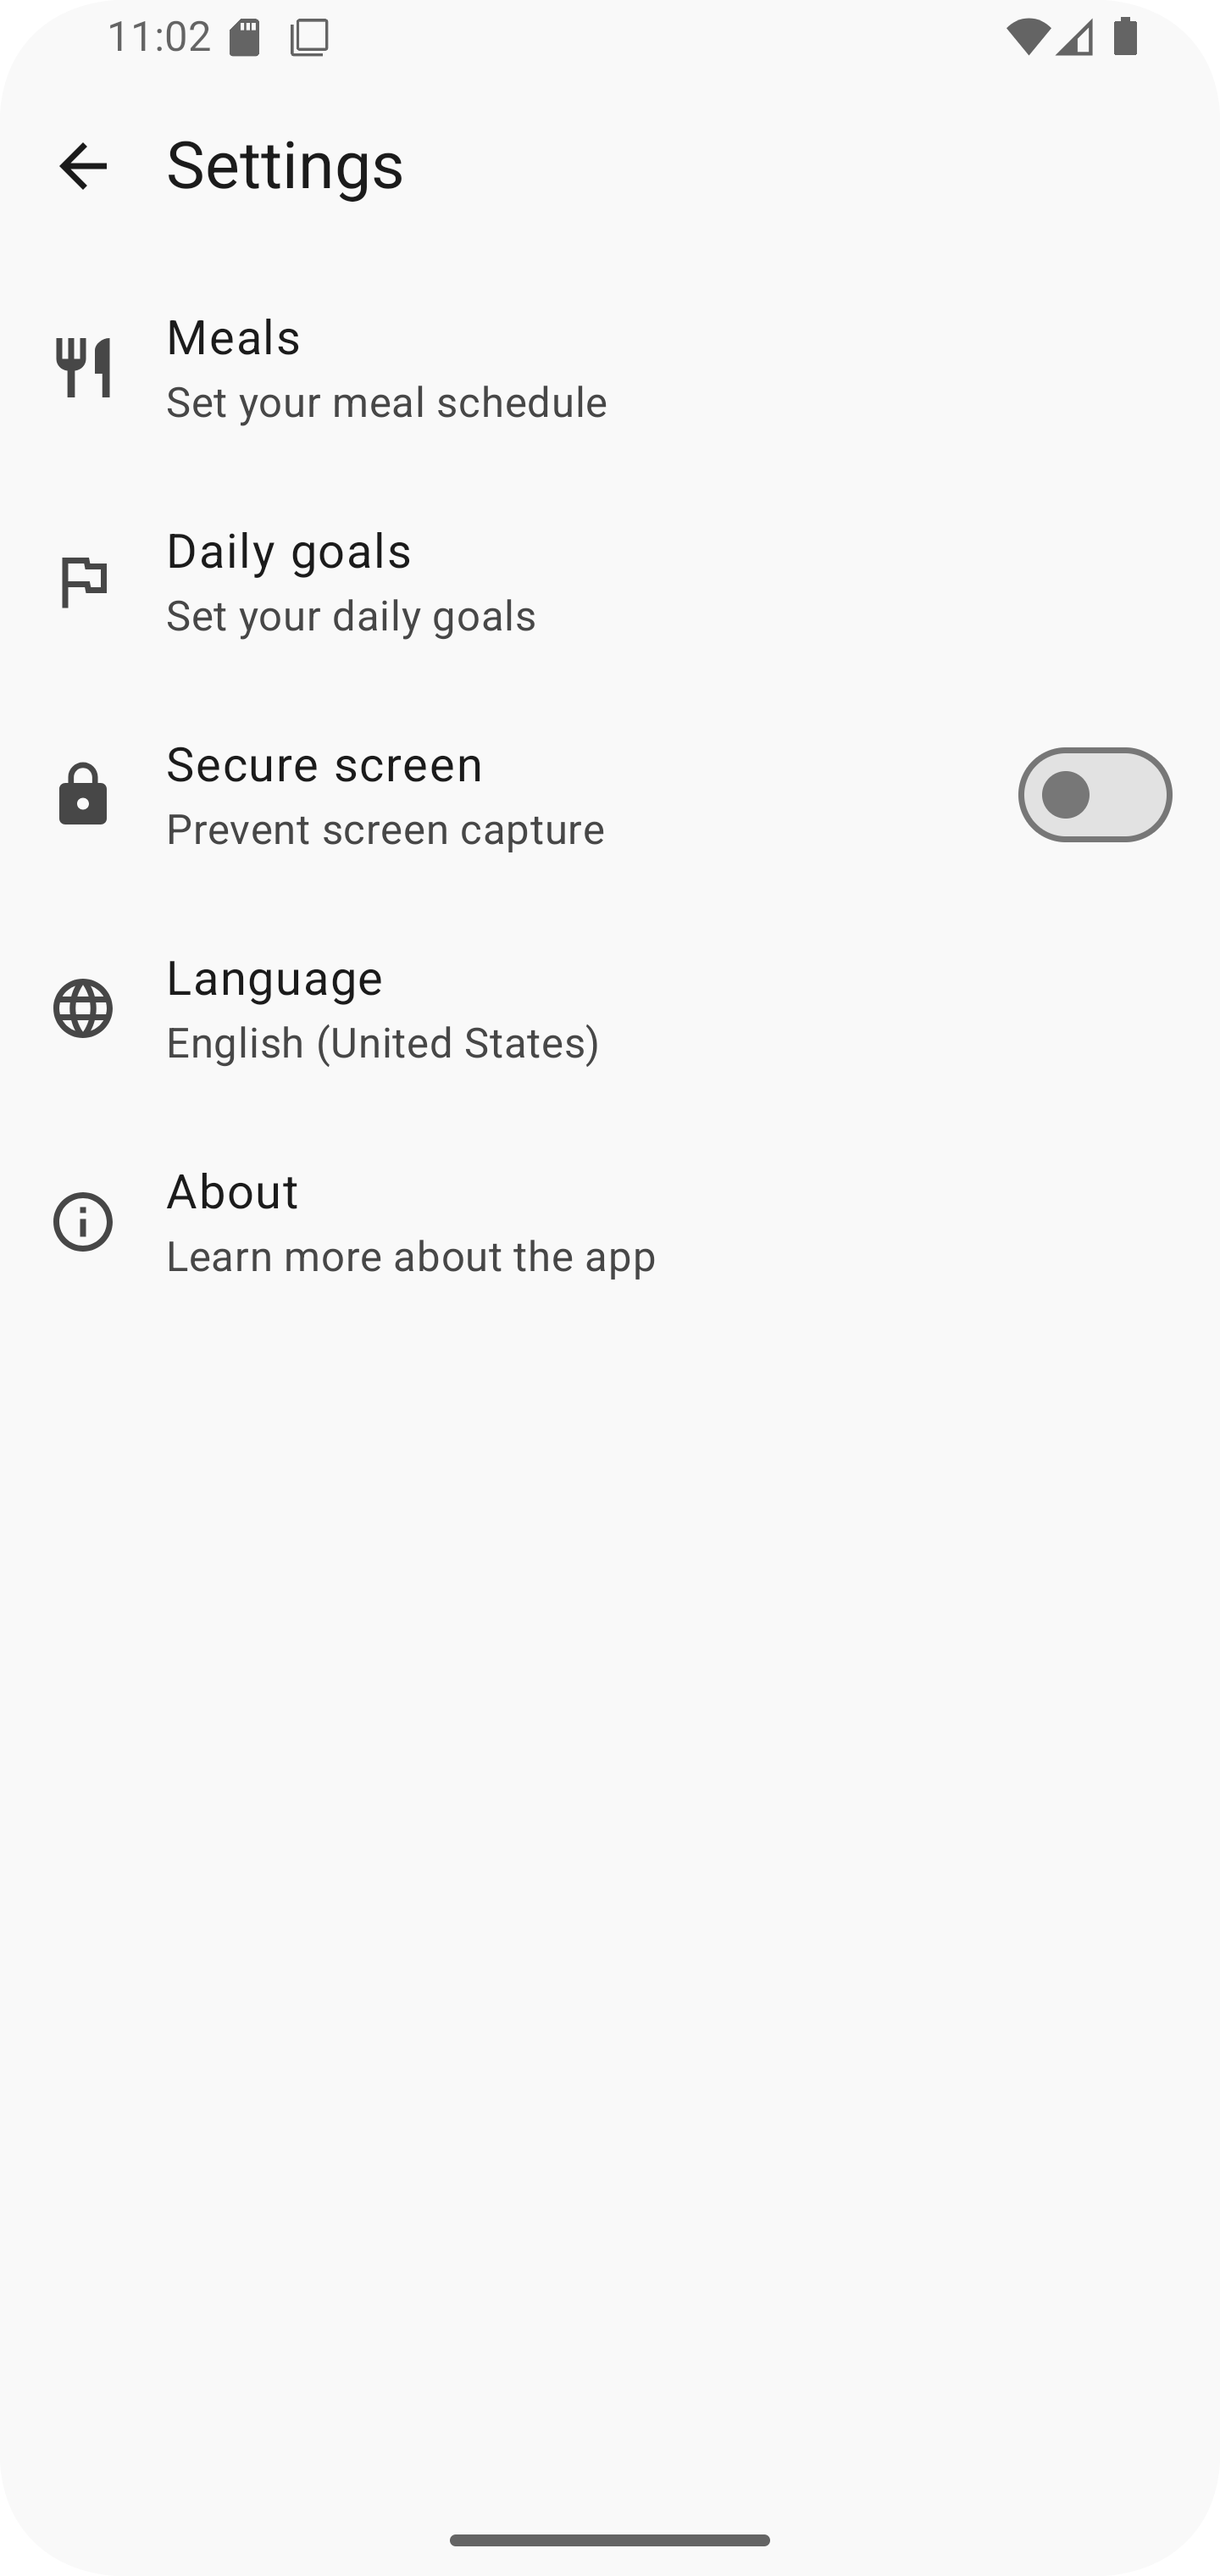
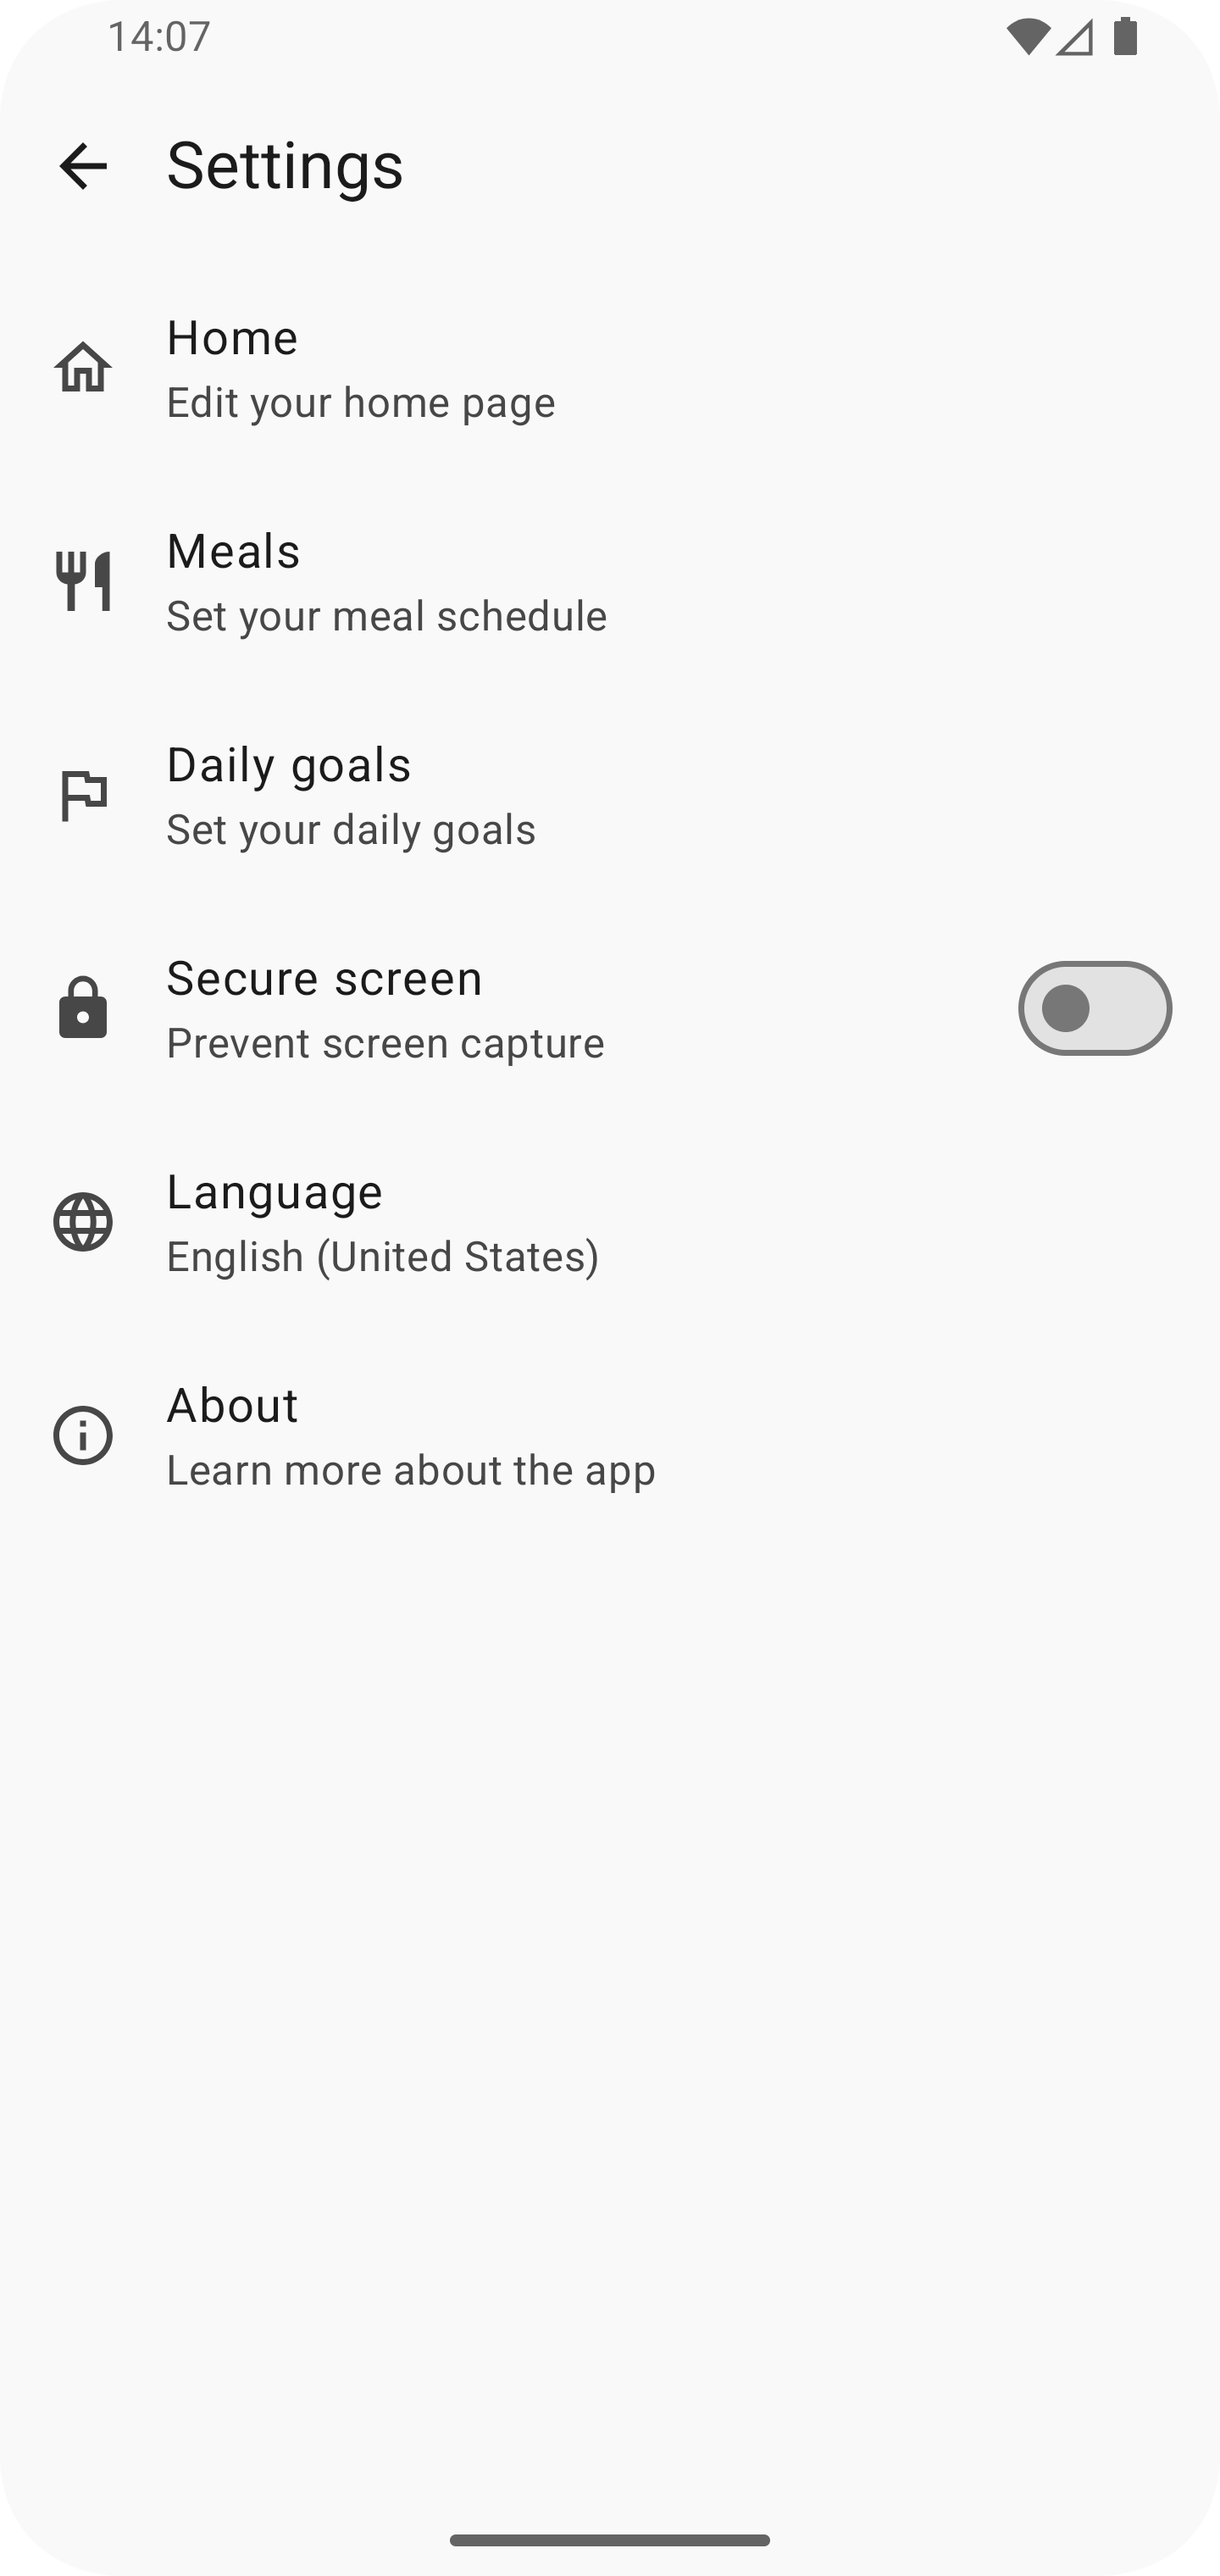
chore: release 2.2.0 (#84)

diff --git a/app/src/commonMain/kotlin/com/maksimowiczm/foodyou/feature/changelog/Changelog.kt b/app/src/commonMain/kotlin/com/maksimowiczm/foodyou/feature/changelog/Changelog.kt
@@ -14,13 +14,15 @@ import org.jetbrains.compose.resources.stringResource
 object Changelog {
     val versions
         get() = listOf(
-            next,
+            v2_2_0,
             v2_1_1,
             v2_1_0,
             v2_0_0
         )
 
-    val next = Version.next(
+    val v2_2_0 = Version(
+        version = "2.2.0",
+        date = LocalDate(2025, 5, 10),
         newFeatures = listOf(
             "Home page customization, edit the home page to your liking",
             "Meals cards customization, use vertical or horizontal layout"
@@ -28,10 +30,7 @@ object Changelog {
         changes = listOf(
             "Small visual adjustments made to the meal screen",
             "Meals time-based ordering \"include all-day meals\" option changed to \"ignore all-day meals\". All-day meals are now included in the meal list by default."
-        ),
-        bugFixes = listOf(),
-        translations = listOf(),
-        notes = null
+        )
     )
 
     val v2_1_1 = Version(

diff --git a/docs/release.md b/docs/release.md
@@ -1,7 +1,7 @@
 ### Release Process
 
 1. Create a new branch: `chore/release-<version>`
-2. Update the `versionCode` and `versionName` in `build.gradle` to the new version.
+2. Update the `versionCode` and `versionName` in `libs.versions.toml` to the new version.
 3. Verify that the build is reproducible.
 4. Create a changelog for the new version in `metadata/en-US/changelog/<versionCode>.txt` and
    `app/src/commonMain/kotlin/com/maksimowiczm/foodyou/feature/changelog/Changelog.kt`, patch
